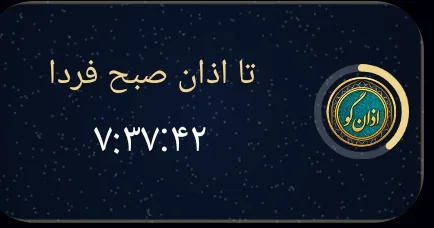
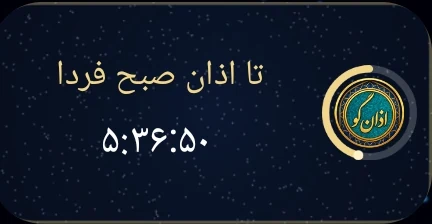
updating android web site

diff --git a/fa/app/widgets.html b/fa/app/widgets.html
@@ -73,7 +73,7 @@
       <div class="wstack">
         <img src="img/widget-moon-full.webp" alt="ویجت ماه با درصد روشنایی، طلوع، بهترین دید و غروب ماه" width="900" height="499" fetchpriority="high">
         <img src="img/widget-large.webp" alt="ویجت بزرگ اوقات شرعی با شمارش معکوس" width="922" height="485" fetchpriority="high">
-        <img src="img/widget-small.webp" alt="ویجت کوچک شمارش معکوس تا اذان بعدی" width="434" height="228" fetchpriority="high">
+        <img src="img/widget-small.webp" alt="ویجت کوچک شمارش معکوس تا اذان بعدی" width="432" height="224" fetchpriority="high">
       </div>
     </div>
   </div>
@@ -87,13 +87,15 @@
       <ul class="points">
         <li><svg class="ico"><use href="#i-check"/></svg><span><b>کوچک:</b> اذان بعدی و شمارش معکوس، با حلقهٔ پیشرفت دور نشان اذان گو.</span></li>
         <li><svg class="ico"><use href="#i-check"/></svg><span><b>بزرگ:</b> علاوه بر آن، نام مکان، تاریخ و اوقات شرعی همهٔ روز را نشان میدهد و اذان بعدی در آن مشخص است.</span></li>
+        <li><svg class="ico"><use href="#i-check"/></svg><span>در ویجت بزرگ، زیر تاریخ، واقعهٔ همان روز هم نوشته میشود، مثلاً مناسبتهای مذهبی تقویم.</span></li>
         <li><svg class="ico"><use href="#i-check"/></svg><span>هنگام پخش دعا پیش از اذان، دکمهٔ «قطع دعا» روی ویجت میآید.</span></li>
       </ul>
     </div>
     <div class="reveal">
       <div class="wcol">
         <figure><img src="img/widget-large.webp" alt="ویجت بزرگ اوقات شرعی" width="922" height="485" loading="lazy"><figcaption>ویجت بزرگ: شمارش معکوس و اوقات همهٔ روز</figcaption></figure>
-        <figure class="small"><img src="img/widget-small.webp" alt="ویجت کوچک شمارش معکوس" width="434" height="228" loading="lazy"><figcaption>ویجت کوچک: اذان بعدی و شمارش معکوس</figcaption></figure>
+        <figure><img src="img/widget-event.webp" alt="ویجت بزرگ با تاریخ قمری و واقعهٔ روز، اوقات و شمارش معکوس اذان مغرب" width="1000" height="521" loading="lazy"><figcaption>ویجت بزرگ: تاریخ، واقعهٔ روز و اوقات شرعی</figcaption></figure>
+        <figure class="small"><img src="img/widget-small.webp" alt="ویجت کوچک شمارش معکوس" width="432" height="224" loading="lazy"><figcaption>ویجت کوچک: اذان بعدی و شمارش معکوس</figcaption></figure>
         <figure><img src="img/widget-dua.webp" alt="ویجت هنگام پخش دعا با دکمهٔ قطع دعا" width="900" height="488" loading="lazy"><figcaption>هنگام پخش دعا: «دعا پیش از اذان مغرب در حال پخش…» با دکمهٔ «قطع دعا»</figcaption></figure>
       </div>
     </div>

diff --git a/fa/app/index.html b/fa/app/index.html
@@ -87,6 +87,22 @@
     </div>
   </div>
 </section>
+<section class="sec pitch" id="why" aria-labelledby="whyTitle">
+  <div class="wrap">
+    <div class="pitchbox reveal">
+      <h2 id="whyTitle" class="sr">چرا اذان گو؟</h2>
+      <ul class="pq">
+        <li><svg class="ico"><use href="#i-bell"/></svg><span>آیا در منطقهای زندگی میکنید که صدای اذان کمتر به گوش میرسد؟</span></li>
+        <li><svg class="ico"><use href="#i-bell"/></svg><span>مدتهاست صدای دلنشین اذان در خانهتان شنیده نمیشود؟</span></li>
+        <li><svg class="ico"><use href="#i-bell"/></svg><span>به دلیل مشغلههای کاری و روزمره، نماز اول وقت را از دست میدهید؟</span></li>
+      </ul>
+      <p class="pans">دیگر نگران نباشید؛ اپلیکیشن اذانگو دقیقاً برای شما طراحی شده است تا در هر زمان و مکان، یادآور دقیق و آرامشبخش اوقات شرعی باشد.</p>
+      <p class="pcta">همین حالا اذانگو را دانلود کنید و هیچ وقت نماز اول وقت را از دست ندهید.</p>
+      <a class="btn gold" href="#download"><svg class="ico"><use href="#i-down"/></svg>شرکت در آزمایش برنامه</a>
+    </div>
+  </div>
+</section>
+
 
 <div class="ticker" aria-hidden="true">
   <div class="track" id="tick1"></div>

diff --git a/fa/app/css/app.css b/fa/app/css/app.css
@@ -452,3 +452,13 @@ html[dir=rtl] .rl-bar i{transform-origin:100% 50%}
   .rl-stage{--pw:300px;grid-row:1/3}
 }
 @media(prefers-reduced-motion:reduce){.rl-s.lock img,.rl-s.lock .lk-logo{opacity:1;transform:none}}
+
+/* pitch: questions + answer, right under the hero */
+.pitchbox{max-width:820px;margin:0 auto;padding:30px 28px;border-radius:28px;text-align:center;background:linear-gradient(135deg,rgba(14,90,87,.50),rgba(9,32,44,.92));border:1px solid var(--line)}
+.sr{position:absolute;width:1px;height:1px;overflow:hidden;clip:rect(0 0 0 0)}
+.pq{list-style:none;margin:0 0 22px;padding:0;display:grid;gap:10px;text-align:start}
+.pq li{display:flex;gap:12px;align-items:center;padding:13px 16px;border-radius:16px;background:rgba(7,28,39,.55);border:1px solid var(--line-soft);font-size:17px;line-height:1.9;color:var(--text)}
+.pq .ico{flex:none;width:24px;height:24px;color:var(--gold)}
+.pans{font-size:clamp(18px,3.2vw,22px);line-height:2;color:var(--heading);margin:0 0 12px}
+.pcta{font-size:17px;line-height:1.9;color:#b9c9cf;margin:0 0 20px}
+@media(max-width:560px){.pitchbox{padding:22px 16px}.pq li{font-size:16px}}
